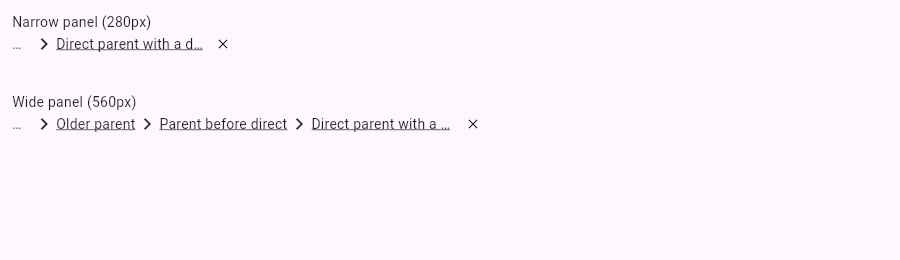
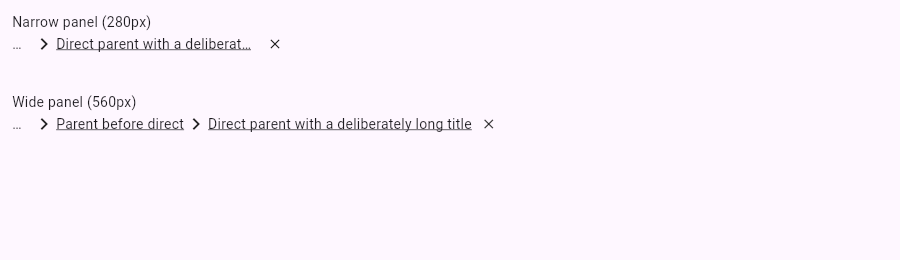
Fit breadcrumb paths to rendered titles

Changed region(s): [[0.0622, 0.4308, 0.56, 0.5231], [0.2178, 0.1538, 0.3111, 0.2154]]

diff --git a/packages/goals_widgets/lib/src/goal_breadcrumb.dart b/packages/goals_widgets/lib/src/goal_breadcrumb.dart
@@ -11,6 +11,8 @@ import 'package:flutter/painting.dart'
         ShapeDecoration,
         TextDecoration,
         TextOverflow,
+        TextPainter,
+        TextSpan,
         TextStyle,
         VoidCallback;
 import 'package:flutter/services.dart' show SystemMouseCursors;
@@ -19,10 +21,13 @@ import 'package:flutter/widgets.dart'
         BoxConstraints,
         BuildContext,
         ConstrainedBox,
+        DefaultTextStyle,
+        Directionality,
         GestureDetector,
         Icon,
         LayoutBuilder,
         MainAxisSize,
+        MediaQuery,
         MouseRegion,
         Padding,
         Row,
@@ -217,17 +222,69 @@ class PathBreadcrumb extends StatefulWidget {
 class _PathBreadcrumbState extends State<PathBreadcrumb> {
   static const _maxBreadcrumbWidth = 560.0;
   static const _rightEdgePadding = 8.0;
-  // Four short crumbs comfortably fit inside the 560px cap. This is the
-  // width at which a crumb starts yielding its title, not a fixed allocation:
-  // short labels retain the remaining space rather than causing an ancestor
-  // to disappear solely because a nominal 150px slot was reserved for it.
-  static const _minimumCrumbWidth = 110.0;
-  static const _maxVisibleCrumbs = 4;
   static const _chevronWidth = 24.0;
   static const _omissionWidth = 20.0;
   static const _removeButtonWidth = 18.0;
 
   bool _hovered = false;
+  WatchedGoalSet? _watch;
+  StreamSubscription? _watchSub;
+
+  @override
+  void didChangeDependencies() {
+    super.didChangeDependencies();
+    if (_watch != null) return;
+    final syncClient = GoalWidgetsContext.of(context).syncClient;
+    _watch = syncClient.watchGoals(widget.renderedPath);
+    _watchSub = _watch!.stream
+        .throttleTime(const Duration(milliseconds: 16), trailing: true)
+        .listen((_) {
+      if (!mounted) return;
+      setState(() {});
+    });
+  }
+
+  @override
+  void didUpdateWidget(PathBreadcrumb oldWidget) {
+    super.didUpdateWidget(oldWidget);
+    if (oldWidget.renderedPath != widget.renderedPath) {
+      _watch?.setIds(widget.renderedPath);
+    }
+  }
+
+  @override
+  void dispose() {
+    _watchSub?.cancel();
+    _watch?.dispose();
+    super.dispose();
+  }
+
+  List<double> _naturalCrumbWidths(BuildContext context) {
+    final goalMap =
+        GoalWidgetsContext.of(context).syncClient.stateSubject.value;
+    final defaultStyle = DefaultTextStyle.of(context).style;
+    final crumbStyle = defaultStyle.merge((widget.style ?? const TextStyle())
+        .copyWith(decoration: TextDecoration.underline));
+    return List.generate(widget.renderedPath.length, (index) {
+      final shouldAbbreviate = switch (widget.abbreviationStrategy) {
+        CrumbAbbreviationStrategy.none => false,
+        CrumbAbbreviationStrategy.show_last =>
+          index != widget.renderedPath.length - 1,
+        CrumbAbbreviationStrategy.all => true,
+      };
+      final text = shouldAbbreviate
+          ? _doAbbreviation(goalMap[widget.renderedPath[index]]?.text)
+          : goalMap[widget.renderedPath[index]]?.text;
+      if (text == null) return 50.0;
+      final painter = TextPainter(
+        text: TextSpan(text: text, style: crumbStyle),
+        textDirection: Directionality.of(context),
+        textScaler: MediaQuery.textScalerOf(context),
+        maxLines: 1,
+      )..layout();
+      return painter.width;
+    });
+  }
 
   @override
   Widget build(BuildContext context) {
@@ -255,23 +312,35 @@ class _PathBreadcrumbState extends State<PathBreadcrumb> {
                   ? 0.0
                   : uiUnit(2) + _removeButtonWidth;
               final pathLength = widget.renderedPath.length;
-              final fittingCrumbs =
-                  ((availableWidth - removeWidth) / _minimumCrumbWidth)
-                      .floor()
-                      .clamp(1, _maxVisibleCrumbs);
-              final targetVisible = pathLength.clamp(1, fittingCrumbs);
-              final firstVisible = pathLength - targetVisible;
+              final availableCrumbWidth =
+                  (availableWidth - removeWidth).clamp(0.0, availableWidth);
+              final naturalWidths = _naturalCrumbWidths(context);
+              final allCrumbsWidth = naturalWidths.fold<double>(
+                    0.0,
+                    (sum, width) => sum + width,
+                  ) +
+                  (pathLength - 1) * _chevronWidth;
+              var firstVisible = 0;
+              if (pathLength > 1 && allCrumbsWidth > availableCrumbWidth) {
+                firstVisible = pathLength - 1;
+                var visibleWidth =
+                    _omissionWidth + _chevronWidth + naturalWidths.last;
+                for (var index = pathLength - 2; index >= 0; index--) {
+                  final candidateWidth =
+                      visibleWidth + _chevronWidth + naturalWidths[index];
+                  if (candidateWidth > availableCrumbWidth) break;
+                  firstVisible = index;
+                  visibleWidth = candidateWidth;
+                }
+              }
+              final targetVisible = pathLength - firstVisible;
               final hasOmission = firstVisible > 0;
               final separatorCount =
                   (targetVisible - 1) + (hasOmission ? 1 : 0);
-              final crumbWidth = targetVisible == 0
-                  ? 0.0
-                  : ((availableWidth -
-                              removeWidth -
-                              (separatorCount * _chevronWidth) -
-                              (hasOmission ? _omissionWidth : 0.0)) /
-                          targetVisible)
-                      .clamp(0.0, availableWidth);
+              final displayedCrumbWidth = (availableCrumbWidth -
+                      (separatorCount * _chevronWidth) -
+                      (hasOmission ? _omissionWidth : 0.0))
+                  .clamp(0.0, availableCrumbWidth);
               final widgets = <Widget>[];
 
               if (hasOmission) {
@@ -288,6 +357,14 @@ class _PathBreadcrumbState extends State<PathBreadcrumb> {
                   CrumbAbbreviationStrategy.show_last => i != pathLength - 1,
                   CrumbAbbreviationStrategy.all => true,
                 };
+                final isNearestVisibleCrumb = i == pathLength - 1;
+                final earlierVisibleWidths = naturalWidths
+                    .sublist(firstVisible, i)
+                    .fold<double>(0.0, (sum, width) => sum + width);
+                final crumbWidth = isNearestVisibleCrumb
+                    ? (displayedCrumbWidth - earlierVisibleWidths)
+                        .clamp(0.0, displayedCrumbWidth)
+                    : naturalWidths[i];
                 widgets.add(Breadcrumb(
                   style: widget.style,
                   maxWidth: crumbWidth,

diff --git a/packages/goals_widgets/test/goal_breadcrumb_cycles_test.dart b/packages/goals_widgets/test/goal_breadcrumb_cycles_test.dart
@@ -125,12 +125,17 @@ void main() {
     tester.view.physicalSize = const Size(1000, 160);
     await tester.pumpWidget(breadcrumb());
     await tester.pump();
-    expect(find.text('Older parent'), findsOneWidget,
-        reason: 'A wider panel restores as many recent ancestors as fit.');
+    expect(find.text('Older parent'), findsNothing,
+        reason: 'Only recent ancestors whose full labels fit remain visible.');
     expect(find.text('Direct parent'), findsOneWidget);
     expect(find.text('Nearest parent'), findsOneWidget);
-    expect(find.text('Oldest parent'), findsOneWidget,
-        reason: 'All four compact crumbs fit at the 560px cap.');
+    expect(
+      tester
+          .renderObject<RenderParagraph>(find.text('Nearest parent'))
+          .didExceedMaxLines,
+      isFalse,
+      reason: 'The nearest parent gets the remaining room rather than a slot.',
+    );
     await tester.pumpWidget(const SizedBox.shrink());
     await tester.pump(const Duration(seconds: 1));
     client.dispose();
@@ -187,6 +192,121 @@ void main() {
         reason: 'A fitting compact crumb must not receive an ellipsis.',
       );
     }
+    expect(tester.takeException(), isNull);
+
+    await tester.pumpWidget(const SizedBox.shrink());
+    await tester.pump(const Duration(seconds: 1));
+    client.dispose();
+  });
+
+  testWidgets(
+      'narrow compact parent paths retain every fitting crumb without truncation',
+      (tester) async {
+    tester.view.physicalSize = const Size(280, 160);
+    tester.view.devicePixelRatio = 1;
+    addTearDown(tester.view.resetPhysicalSize);
+    addTearDown(tester.view.resetDevicePixelRatio);
+
+    final client = SyncClient(
+        localStore: MemoryLocalStore(),
+        persistenceService: MemoryPersistenceService());
+    await client.init();
+    for (final (id, text) in [
+      ('a', 'A'),
+      ('b', 'B'),
+      ('c', 'C'),
+      ('d', 'D'),
+    ]) {
+      await client.modifyGoal(GoalDelta(id: id, text: text));
+    }
+
+    await tester.pumpWidget(MaterialApp(
+      home: Scaffold(
+        body: GoalWidgetsContext(
+          syncClient: client,
+          child: GoalActionsContext.empty(
+            child: const SizedBox(
+              width: 280,
+              child: PathBreadcrumb(
+                renderedPath: GoalPath(['a', 'b', 'c', 'd']),
+              ),
+            ),
+          ),
+        ),
+      ),
+    ));
+    await tester.pump();
+
+    expect(find.text('…'), findsNothing,
+        reason: 'Four fitting compact crumbs must survive a narrow panel.');
+    for (final label in ['A', 'B', 'C', 'D']) {
+      expect(find.text(label), findsOneWidget);
+      expect(
+        tester
+            .renderObject<RenderParagraph>(find.text(label))
+            .didExceedMaxLines,
+        isFalse,
+        reason: 'A fitting compact crumb must not receive an ellipsis.',
+      );
+    }
+    expect(tester.takeException(), isNull);
+
+    await tester.pumpWidget(const SizedBox.shrink());
+    await tester.pump(const Duration(seconds: 1));
+    client.dispose();
+  });
+
+  testWidgets('late breadcrumb titles recompute the omitted ancestors',
+      (tester) async {
+    tester.view.physicalSize = const Size(280, 160);
+    tester.view.devicePixelRatio = 1;
+    addTearDown(tester.view.resetPhysicalSize);
+    addTearDown(tester.view.resetDevicePixelRatio);
+
+    final client = SyncClient(
+        localStore: MemoryLocalStore(),
+        persistenceService: MemoryPersistenceService());
+    await client.init();
+    await client.modifyGoal(GoalDelta(id: 'oldest', text: 'Oldest'));
+    await client.modifyGoal(GoalDelta(id: 'nearest', text: 'Near'));
+
+    await tester.pumpWidget(MaterialApp(
+      home: Scaffold(
+        body: GoalWidgetsContext(
+          syncClient: client,
+          child: GoalActionsContext.empty(
+            child: const SizedBox(
+              width: 280,
+              child: PathBreadcrumb(
+                renderedPath: GoalPath(['oldest', 'nearest']),
+              ),
+            ),
+          ),
+        ),
+      ),
+    ));
+    await tester.pump();
+    expect(find.text('…'), findsNothing);
+
+    await client.modifyGoal(GoalDelta(
+      id: 'nearest',
+      text: 'A deliberately long nearest parent title that needs the free room',
+    ));
+    await tester.pump(const Duration(milliseconds: 32));
+
+    expect(find.text('…'), findsOneWidget,
+        reason:
+            'A delayed long title must re-evaluate the retained ancestors.');
+    expect(find.text('Oldest'), findsNothing);
+    expect(
+      tester
+          .renderObject<RenderParagraph>(find.text(
+              'A deliberately long nearest parent title that needs the free room'))
+          .didExceedMaxLines,
+      isTrue,
+      reason:
+          'The nearest title receives the remaining room rather than overflow.',
+    );
     expect(tester.takeException(), isNull);
 
     await tester.pumpWidget(const SizedBox.shrink());
